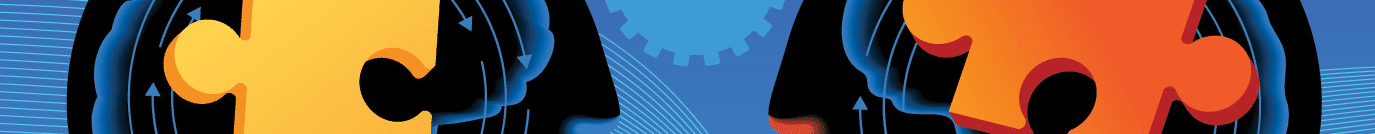
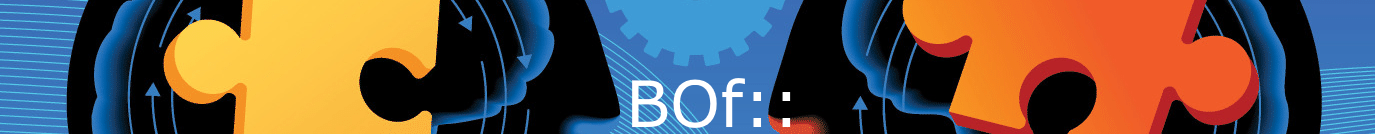
Page adjusted to the needs of 2017

Changed region(s): [[0.4582, 0.5672, 0.5804, 0.9552]]

diff --git a/index.html b/index.html
@@ -4,12 +4,12 @@
     <meta charset="utf-8">
     <title>Service First ::</title>
     <meta name="viewport" content="width=device-width, initial-scale=1.0">
-    <meta name="description" content="Zarządzaj przez internet z każdego miejsca i o każdej porze sprawami w firmie:  
-	Pracownicy, Czas pracy, Rezerwacje, Delegacje, Wyposażenie, Zamówienia, Marketing, Koszty, Projekty, ... ">
-    <meta name="author" content="Service First 4U Jerzy Wachowiak">
-	<meta name="keywords" content="Zarządzanie, Firma, Pracownicy, Czas pracy, Rezerwacje, Delegacje, Wyposażenie, Zamówienia, Marketing, Koszty, Projekty">
-	<meta http-equiv="Content-language" content="pl">
-	<META name="Language" content="polish">
+    <meta name="description" content="Manage online from anywhere and at any time your organization:
+Workers, Working Time, Reservations, Delegations, Equipment, Orders, Marketing, Costs, Projects, ... ">
+    <meta name="author" content="Jerzy Wachowiak">
+	<meta name="keywords" content="Management, Company, Workers, Working Time, Reservations, Delegations, Equipment, Orders, Marketing, Costs, Projects">
+	<meta http-equiv="Content-language" content="en">
+	<META name="Language" content="english">
 	<link rel="shortcut icon" href="favicon.ico" type="image/x-icon"> 
 	<meta name="msapplication-TileColor" content="#ffffff"/> 
 	<meta name="msapplication-TileImage" content="favicon.png"/>
@@ -50,10 +50,10 @@
 				<img src="images/collaborate1_part7x1.png"/>
 			<section id="product">
 				<div class="page-header">
-					<h2><img src="images/cogs_r.png"/> &nbsp;Service First</h2>
+					<h2><img src="images/cogs_r.png"/> &nbsp;BOf::</h2>
 				</div>	
 				<div class="offset1">
-					<p>Service First is a fork of the <a href="http://sourceforge.net/projects/activeagenda/">Active Agenda</a> project. 
+					<p>BackOffice (BOf::) is a fork of the <a href="http://sourceforge.net/projects/activeagenda/">Active Agenda</a> project. 
 					It consists of the basic technology platform and the PHP application generator (spec2app) used to convert XML module specs (like e.g. <a href="locbModuleDef.xml">Buildings</a>) to a browser application atop a MySQL database. 
 					The GUI is inspired by the idea of displaying structured content frequently encountered in organizations as a blog. Each detailed view can be annotated by notes, links, tags and reminders. The application can be used  with similar look and feel on desktops and tablets.
 					The technology platform installation is prepared to be run and administered on top of cloud platforms like Microsoft Azure. Modules can be installed on the run. The scripts handle all the tasks on the application server and database level preventing conflicts from data structure and data content mismatch. The small technology footprint allows economical sizing of virtual machines.</p>				
@@ -192,17 +192,17 @@
 					<h2><img src="images/cogs_r.png"/> &nbsp;Demo</h2>
 				</div>
 				<div class="offset1">					
-					<a href="https://servicefirst.pl/">https://servicefirst.pl</a><br>
+					<a href="http://demo-s1st.cloudapp.net">http://demo-s1st.cloudapp.net</a><br>
 					login: aout <br>
 					password: Password4U
 				</div>
 			</section>
-			<section id="Contact us">
+			<section id="Contact">
 				<div class="page-header">
-					<h2><img src="images/cogs_r.png"/> &nbsp;Kontakt</h2>
+					<h2><img src="images/cogs_r.png"/> &nbsp;Contact</h2>
 				</div>
 				<div class="offset1">					
-					jerzy.wachowiak <img src="images/image002.gif"/> wp.pl is main developer of the forked version<br><br>
+					BOf:: is hosted on <a href="https://github.com/activeagenda?tab=repositories">https://github.com/activeagenda</a>. jerzy.wachowiak <img src="images/image002.gif"/> wp.pl is main developer of the forked version<br><br>
 					For more information on basic technology, the initial operational risk management application (OpRisk) and the <a href="http://en.wikipedia.org/wiki/Reciprocal_Public_License">Reciprocal Public License</a> look at 
 					<a href="http://sourceforge.net/projects/activeagenda/">http://sourceforge.net/projects/activeagenda</a>					
 				</div>
